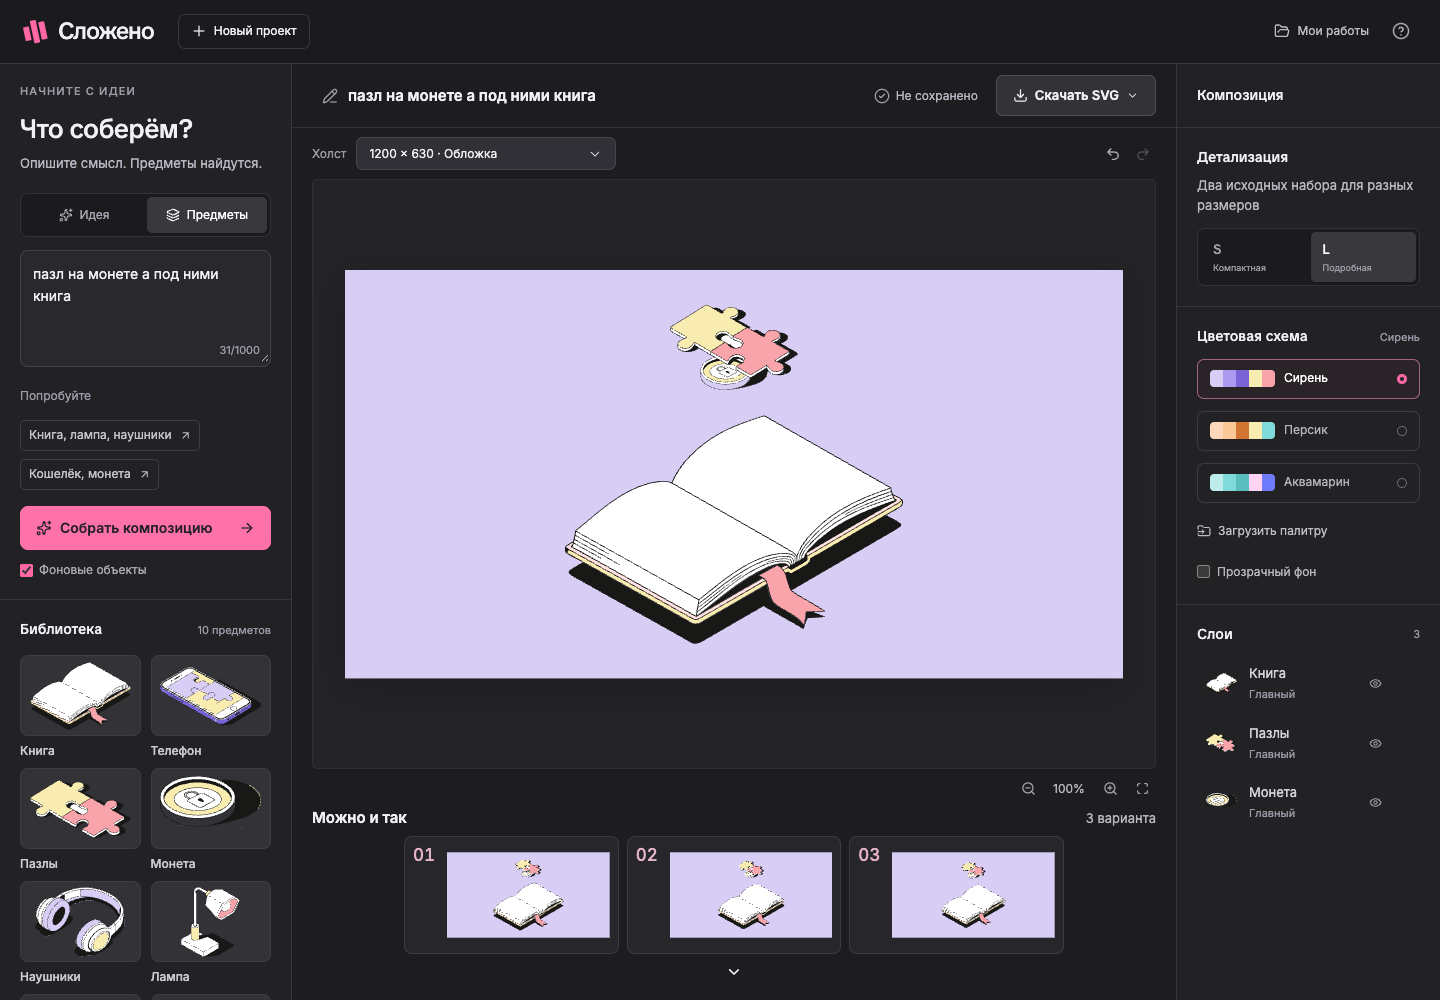
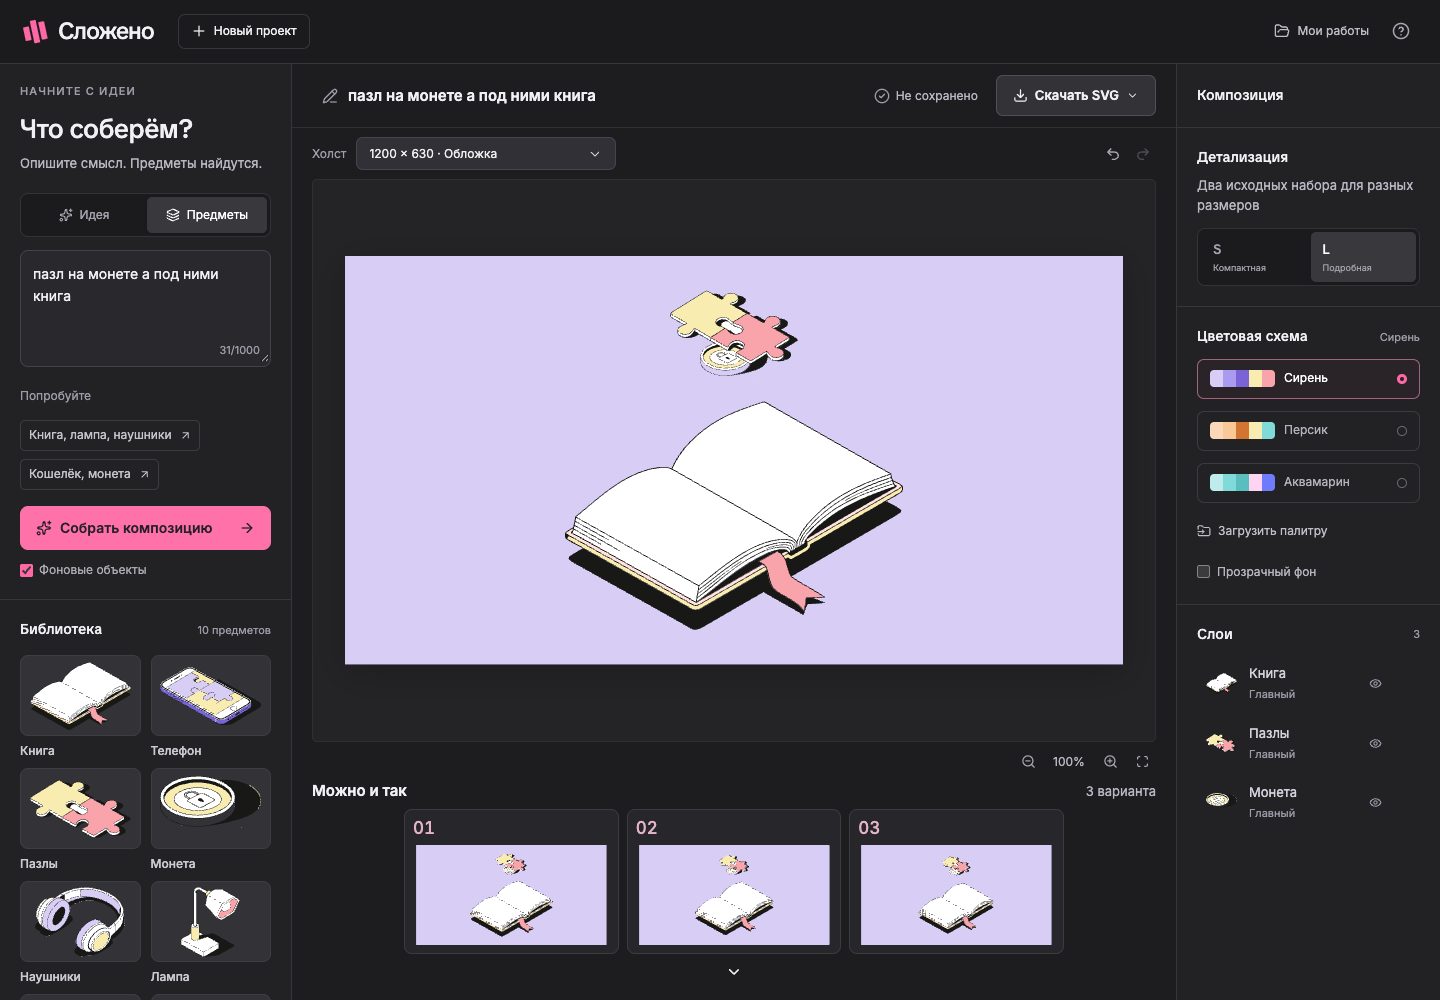
fix: separate variant numbers from preview images

diff --git a/frontend/e2e/editor-ui-responsive.spec.ts b/frontend/e2e/editor-ui-responsive.spec.ts
@@ -104,7 +104,7 @@ test("variant previews collapse after selection, reopen unchanged and preserve u
   for (const card of await variants.locator(".variant-card").all()) {
     const number = await card.locator(".variant-number").boundingBox();
     const preview = await card.locator(".variant-preview").boundingBox();
-    expect(preview!.x - number!.x - number!.width).toBeGreaterThanOrEqual(7);
+    expect(preview!.y - number!.y - number!.height).toBeGreaterThanOrEqual(7);
   }
   const original = await page
     .getByTestId("artboard")

diff --git a/frontend/src/styles.css b/frontend/src/styles.css
@@ -841,8 +841,8 @@ kbd {
 .variant-card {
   position: relative;
   display: grid;
-  grid-template-columns: 26px minmax(0, 1fr);
-  column-gap: 8px;
+  grid-template-columns: minmax(0, 1fr);
+  row-gap: 8px;
   align-items: start;
   min-width: 0;
   padding: 8px;

diff --git a/docs/ACCEPTANCE.md b/docs/ACCEPTANCE.md
@@ -219,7 +219,7 @@ Python/TypeScript для всех 40 вариантов как по одному
 Панель «Идея и предметы» исправлена на границе 1180 px: открывается поверх
 одноколоночного редактора, имеет неподвижное закрытие и собственный скролл, при
 открытии возвращается к началу. Проверены 960×500, 840×450, 720×450, 480×320 и
-320×450 CSS px. Превью крупнее, номера имеют отдельную колонку с проверенным
+320×450 CSS px. Превью крупнее, номера имеют отдельную строку над изображением с проверенным
 зазором; стрелки внутри карточек убраны. Выбор сворачивает ленту, нижняя стрелка
 возвращает те же три варианта. На низком окне лента открывается поверх холста.
 «Можно и так» и название проекта используют одинаковые Inter 15 px / 600 /
